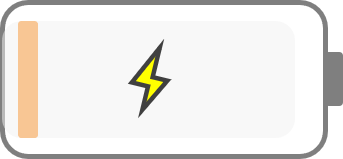
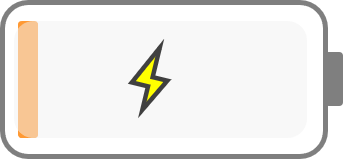
메인 컬러테마 변경
메인 컬러테마 변경

Changed region(s): [[0.0, 0.2013, 0.0292, 0.805], [0.0292, 0.1258, 0.0875, 0.1761], [0.0292, 0.8302, 0.0875, 0.8805]]

diff --git a/component/detail/sections/Description.js b/component/detail/sections/Description.js
@@ -34,29 +34,28 @@ function Description({ navigation, Battery, Data}) {
 
   
   });*/  
-
+  console.log("no charging , code :", voltage);
   return (
     <>
       <View style={styles.Data}>
         <View style={styles.Dataempty}></View>
         <View style={styles.Datadescription}>
-
-          <Text style={{fontSize: size*4, fontWeight: 'bold'}}>ㆍ VOLTAGE</Text>
-          <Text style={{fontSize: size*4, fontWeight: 'bold'}}>ㆍ CYCLE COUNT</Text>
-          <Text style={{fontSize: size*4, fontWeight: 'bold'}}>ㆍ Time to Full</Text>
-          <Text style={{fontSize: size*4, fontWeight: 'bold'}}>ㆍ Time to Empty</Text>
-          <Text style={{fontSize: size*4, fontWeight: 'bold'}}>ㆍ TEMP</Text>
-          <Text style={{fontSize: size*4, fontWeight: 'bold'}}>ㆍ SOH</Text>
-          <Text style={{fontSize: size*4, fontWeight: 'bold'}}>ㆍ STATUS</Text>
+          <Text style={{fontSize: size*4.5, fontWeight: 'bold', color:'#F5D0A9'}}>ㆍ VOLTAGE</Text>
+          <Text style={{fontSize: size*4.5, fontWeight: 'bold', color:'#F5D0A9'}}>ㆍ CYCLE COUNT</Text>
+          <Text style={{fontSize: size*4.5, fontWeight: 'bold', color:'#F5D0A9'}}>ㆍ Time to Full</Text>
+          <Text style={{fontSize: size*4.5, fontWeight: 'bold', color:'#F5D0A9'}}>ㆍ Time to Empty</Text>
+          <Text style={{fontSize: size*4.5, fontWeight: 'bold', color:'#F5D0A9'}}>ㆍ TEMP</Text>
+          <Text style={{fontSize: size*4.5, fontWeight: 'bold', color:'#F5D0A9'}}>ㆍ SOH</Text>
+          <Text style={{fontSize: size*4.5, fontWeight: 'bold', color:'#F5D0A9'}}>ㆍ STATUS</Text>
         </View>
         <View style={styles.Dataval}>
-          <Text style={{fontSize: size*4}}>{voltage} V</Text>
-          <Text style={{fontSize: size*4}}>{cyclecount} Cycle</Text>
-          <Text style={{fontSize: size*4}}>{ttf} min</Text>
-          <Text style={{fontSize: size*4}}>{tte} min</Text>
-          <Text style={{fontSize: size*4}}>{temperature} °C</Text>
-          <Text style={{fontSize: size*4}}>{soh} %</Text>
-          <Text style={{fontSize: size*4}}>{Battery[9]}</Text>
+          <Text style={{fontSize: size*4.5, color:'#FBF5EF'}}>{voltage} V</Text>
+          <Text style={{fontSize: size*4.5, color:'#FBF5EF'}}>{cyclecount} Cycle</Text>
+          <Text style={{fontSize: size*4.5, color:'#FBF5EF'}}>{ttf} min</Text>
+          <Text style={{fontSize: size*4.5, color:'#FBF5EF'}}>{tte} min</Text>
+          <Text style={{fontSize: size*4.5, color:'#FBF5EF'}}>{temperature} °C</Text>
+          <Text style={{fontSize: size*4.5, color:'#FBF5EF'}}>{soh} %</Text>
+          <Text style={{fontSize: size*4.5, color:'#FBF5EF'}}>{Battery[9]}</Text>
         </View>
       </View>
 
@@ -64,19 +63,13 @@ function Description({ navigation, Battery, Data}) {
       <View style={styles.Nav}>
         <View style={styles.Navbtn}>
           <Button
-            title="Check"
-            onPress={()=>Alert.alert('click')}
+            color="#DF7401"
+            title="C h e c k"
+            fontSize =""
+            onPress={()=>Alert.alert('Send Data to Beacon')}
           />
         </View>
 
-        <TouchableOpacity onPress={() => navigation.navigate('List')}>
-        <View style={styles.Navlist}>
-          <Image
-          style={styles.image}
-          source={require('../../../assets/list.png')}
-          />
-        </View>
-        </TouchableOpacity>
       </View>
       <View style={styles.Navempty}></View>
     </>
@@ -89,6 +82,7 @@ const styles = StyleSheet.create({
     justifyContent: 'center',
     flex: 1,
     flexDirection: 'row',
+    backgroundColor: '#B45F04',
   },
   Dataempty:{
     flex: 0.4,
@@ -100,6 +94,7 @@ const styles = StyleSheet.create({
     flex: 1,
   },
   Nav:{
+    backgroundColor: '#B45F04',
     alignItems: 'center',
     justifyContent: 'space-around',
     flex: 0.2,
@@ -118,7 +113,10 @@ const styles = StyleSheet.create({
     height: 45,
   },
   Navempty: {
+    backgroundColor: '#B45F04',
     flex: 0.2,
+    alignItems: 'center',
+    justifyContent: 'center',
   },
 });
 

diff --git a/component/list/ListPage.js b/component/list/ListPage.js
@@ -216,14 +216,31 @@ export default function ListPage({navigation, route}){
 
   return (
     <>
-    <StatusBar backgroundColor={'#ff6600'} barStyle="light-content"/> 
+    <StatusBar backgroundColor={'#DF7401'} barStyle="light-content"/> 
     <SafeAreaView style={styles.wrap}>
     <ScrollView style={styles.scroll}>
+            {
+              <View style={{flex:1, margin: 20}, styles.container}>
+                 <Text style={{textAlign: 'left',  
+                              width: Dimensions.get('window').height/15 * 0.7, 
+                              fontSize: Dimensions.get('window').width/100 * 5}}></Text>
+                <Text style={{textAlign: 'left',   
+                              width: Dimensions.get('window').height/5 * 0.88,
+                              fontSize: Dimensions.get('window').width/100 * 5,fontWeight: 'bold'}}>Status</Text>
+                <Text style={{textAlign: 'left', 
+                              width: Dimensions.get('window').height/5 * 0.7,
+                              fontSize: Dimensions.get('window').width/100 * 5,fontWeight: 'bold'}}>ID</Text>
+                <Text style={{textAlign: 'left', 
+                              width: Dimensions.get('window').height/5 * 0.7,
+                              fontSize: Dimensions.get('window').width/100 * 5,fontWeight: 'bold'}}>Cycle</Text>
+              </View>
+            }
             {(list.length == 0) &&
               <View style={{flex:1, margin: 20}}>
                 <Text style={{textAlign: 'center'}}>검색중</Text>
               </View>
             }
+        
             <FlatList
               data={list}
               renderItem={({ item }) => <BatteryInfo Battery={item} navigation={navigation} /> }
@@ -238,7 +255,7 @@ export default function ListPage({navigation, route}){
 const styles = StyleSheet.create({
   Header: {
     height: "10%",
-    backgroundColor: '#ff6600',
+    backgroundColor: '#FE9A2E',
     justifyContent: 'space-between',
   },
   HeaderTitle: {
@@ -250,5 +267,10 @@ const styles = StyleSheet.create({
   scroll:{
     height: "100%",
     backgroundColor: '#FFFFFF',
+  },
+  container:{
+    flex:0,
+    flexDirection:'row',
+    backgroundColor: '#FE9A2E',
   },
 });

diff --git a/component/detail/DetailPage.js b/component/detail/DetailPage.js
@@ -107,7 +107,7 @@ export default function DetailPage({navigation, route}) {
 
   return (
     <>
-      <View style={styles.Top}/>
+      <View style={styles.Top} />
       <View style={styles.Header}>
         <Chart Charge={route.params.Battery[1]} Chargestatus={chargestatus} ></Chart>
       </View>
@@ -121,10 +121,12 @@ export default function DetailPage({navigation, route}) {
 const styles = StyleSheet.create({
   Top: {
     flex: size/72,
+    backgroundColor: '#DF7401',
   },
   Header: {
     alignItems: 'center',
     justifyContent: 'center',
     flex: size/2.4,
+    backgroundColor: '#DF7401',
   },
 });

diff --git a/App.js b/App.js
@@ -18,7 +18,7 @@ export default function App() {
           options={{
             title: 'NEO SEMITECH',
             headerStyle: {
-              backgroundColor: '#ff6600',
+              backgroundColor: '#DF7401',
             },
             headerTintColor: '#fff',
             headerTitleStyle: {
@@ -32,7 +32,7 @@ export default function App() {
           options={{
             title: '세부사항',
             headerStyle: {
-              backgroundColor: '#ff6600',
+              backgroundColor: '#DF7401',
             },
             headerTintColor: '#fff',
             headerTitleStyle: {

diff --git a/component/detail/sections/donut.js b/component/detail/sections/donut.js
@@ -37,7 +37,7 @@ var size = Dimensions.get('window').width/100;
         backgroundColor="#E6E7D9">
         {
             (fill) => (
-            <Text style={{fontSize: size*10,}}>
+            <Text style={{fontSize: size*10,color:'#FBF5EF'}}>
                 {Charge}%
             </Text>
             )

diff --git a/component/list/sections/BatteryInfo.js b/component/list/sections/BatteryInfo.js
@@ -48,6 +48,7 @@ const styles = StyleSheet.create({
     flexDirection: 'row',
     justifyContent: 'space-around',
     borderBottomWidth: 1,
+    backgroundColor: '#FBF5EF',
   },
   ListView: {
     textAlign: 'center',
